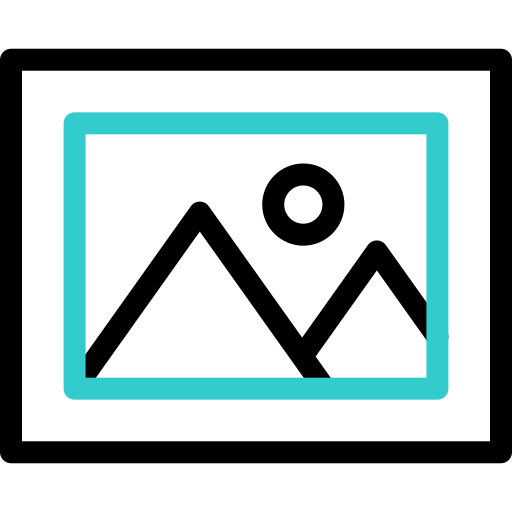
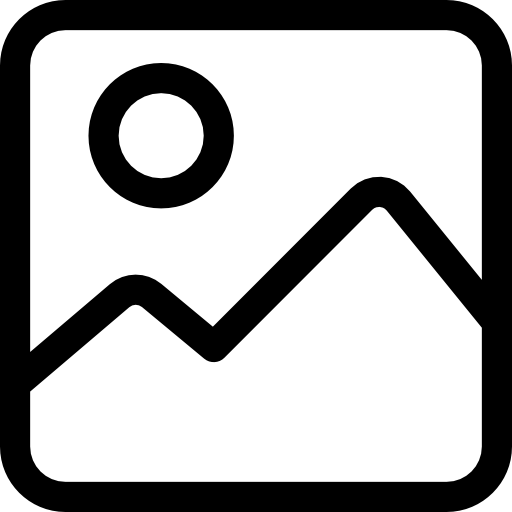
feat: add novos elementos na janela de criação de projeto + abrir projeto

diff --git a/frontend/src/services/replace-word.ts b/frontend/src/services/replace-word.ts
@@ -1,0 +1,55 @@
+export interface ProjectTemplate {
+    ProjectID: number;
+    ImgUrl: string;
+    name: string;
+    info: string;
+    configProje: ConfigSaveTemplate[]; 
+    configGame: ConfigSaveTemplate[]; 
+    scripts: ScriptSaveTemplate[];
+    metaData?: MetaDataTemplate;      // ➕ Interface complementar
+    assetsMap?: AssetMapTemplate[];   // ➕ Interface complementar
+}
+
+export interface ScriptSaveTemplate {
+    IDdirect: number; 
+    path: string; 
+    script: string; 
+}
+
+export interface ConfigSaveTemplate {
+    IDdirect: number;
+    pathNavigate: string;
+    configs: string[];
+}
+
+// ➕ Interfaces complementares para estender o sistema no futuro
+export interface MetaDataTemplate {
+    version: string;
+    lastModified: number;
+    author: string;
+    targetPlatform: 'desktop' | 'web' | 'mobile';
+}
+
+export interface AssetMapTemplate {
+    assetId: string;
+    type: 'audio' | 'texture' | 'font' | 'prefab';
+    localPath: string;
+}
+
+// Interface que define o retorno padrão do arquivo compactado
+export interface LightFileResult {
+    fileName: string;
+    content: string; // Conteúdo textual compactado pronto para ser salvo em disco
+    blob: Blob;      // O arquivo empacotado em binário puro
+}
+
+
+export function base_compress(project_data: ProjectTemplate){
+
+    return project_data
+}
+
+export function base_decompress(rawContent: string){
+    
+    return rawContent
+}

diff --git a/frontend/src/services/convert-light-file.ts b/frontend/src/services/convert-light-file.ts
@@ -1,47 +1,4 @@
-export interface ProjectTemplate {
-    ProjectID: number;
-    ImgUrl: string;
-    name: string;
-    info: string;
-    configProje: ConfigSaveTemplate[]; 
-    configGame: ConfigSaveTemplate[]; 
-    scripts: ScriptSaveTemplate[];
-    metaData?: MetaDataTemplate;      // ➕ Interface complementar
-    assetsMap?: AssetMapTemplate[];   // ➕ Interface complementar
-}
-
-export interface ScriptSaveTemplate {
-    IDdirect: number; 
-    path: string; 
-    script: string; 
-}
-
-export interface ConfigSaveTemplate {
-    IDdirect: number;
-    pathNavigate: string;
-    configs: string[];
-}
-
-// ➕ Interfaces complementares para estender o sistema no futuro
-export interface MetaDataTemplate {
-    version: string;
-    lastModified: number;
-    author: string;
-    targetPlatform: 'desktop' | 'web' | 'mobile';
-}
-
-export interface AssetMapTemplate {
-    assetId: string;
-    type: 'audio' | 'texture' | 'font' | 'prefab';
-    localPath: string;
-}
-
-// Interface que define o retorno padrão do arquivo compactado
-export interface LightFileResult {
-    fileName: string;
-    content: string; // Conteúdo textual compactado pronto para ser salvo em disco
-    blob: Blob;      // O arquivo empacotado em binário puro
-}
+import { type ProjectTemplate, type LightFileResult } from "./replace-word";
 
 function ConvertToFile(project: ProjectTemplate): LightFileResult {
     // 💡 Base da compactação solicitada (ex: substituir quebras de linha e minificar palavras-chave)

diff --git a/frontend/src/App.tsx b/frontend/src/App.tsx
@@ -1,10 +1,40 @@
+import { useEffect, useState } from 'react';
 import './App.css';
-import HomePage from './pages/HomePage/home'
+import HomePage from './pages/HomePage/home';
+import EditorPage from './pages/EditorPage/editor';
 
-function App() {
-    return (
-        <HomePage />
-  )
+type RouteState = {
+  type: 'home' | 'editor';
+  projectId?: string;
+};
+
+function getRouteFromLocation(): RouteState {
+  const match = window.location.pathname.match(/^\/editor\/(.+)$/);
+
+  if (match) {
+    return { type: 'editor', projectId: match[1] };
+  }
+
+  return { type: 'home' };
 }
 
-export default App
+function App() {
+  const [route, setRoute] = useState<RouteState>(() => getRouteFromLocation());
+
+  useEffect(() => {
+    const handleLocationChange = () => {
+      setRoute(getRouteFromLocation());
+    };
+
+    window.addEventListener('popstate', handleLocationChange);
+    return () => window.removeEventListener('popstate', handleLocationChange);
+  }, []);
+
+  if (route.type === 'editor') {
+    return <EditorPage projectId={route.projectId} />;
+  }
+
+  return <HomePage />;
+}
+
+export default App;

diff --git a/frontend/src/pages/HomePage/home.tsx b/frontend/src/pages/HomePage/home.tsx
@@ -6,7 +6,8 @@ import ProjectCard from '../../components/project-card/project-card';
 import WindowCard from '../../components/window-card/window-card';
 import './home.css';
 
-import ConvertToFile, { type ProjectTemplate } from '../../services/convert-light-file';
+import ConvertToFile from '../../services/convert-light-file';
+import { type ProjectTemplate} from "../../services/replace-word";
 import { parseLightFile } from '../../services/decompress-light-file';
 
 type ActiveGroup = 'files' | 'extension' | null;
@@ -126,17 +127,7 @@ export default function HomePage() {
 
       // Executa a conversão
       const arquivoGerado = ConvertToFile(dadosDoProjeto);
-
-      // ==========================================
-      // 🧪 ÁREA DE TESTE: VEJA NO CONSOLE DO NAVEGADOR
-      // ==========================================
-      // console.group("🔬 INSPEÇÃO DO ARQUIVO .LIGHT");
-      // console.log("Nome do Arquivo final:", arquivoGerado.fileName);
-      // console.log("Conteúdo Compactado Bruto:\n", arquivoGerado.content);
-      // console.groupEnd();
-      // ==========================================
-
-      // Executa a ponte do IPC (useBridge)
+      
       const resultadoBridge = await ExportLightFile({
         name: arquivoGerado.fileName,
         content: arquivoGerado.content
@@ -176,6 +167,12 @@ export default function HomePage() {
 
     // Fecha a janela e limpa os campos
     toggleWindow();
+  };
+
+  const handleOpenProject = (project: Project) => {
+    const nextUrl = `/editor/${project.id}`;
+    window.history.pushState({}, '', nextUrl);
+    window.dispatchEvent(new PopStateEvent('popstate'));
   };
 
   return (
@@ -231,7 +228,7 @@ export default function HomePage() {
                   <h4>{project.projectName}</h4>
                   <p>{project.gameName}</p>
                   <div className="buttons">
-                    <button>Abrir Projeto</button>
+                    <button onClick={() => handleOpenProject(project)}>Abrir Projeto</button>
                     <button>Editar Configuracões</button>
                     <button onClick={() => handleExportProject(project)}>Exportar Projeto</button>
                   </div>
@@ -264,7 +261,7 @@ export default function HomePage() {
           </header>
           <div className="window-body">
             <div className="primery-place">
-              <img src={selectedImage ? selectedImage : "assets/pngs/image-static.png"} width={120}/>
+              <img src={selectedImage ? selectedImage : "assets/pngs/image-static.png"} width={120} height={120}/>
               <div className="main-inputs">
                 <input 
                   type="file" 
@@ -285,7 +282,20 @@ export default function HomePage() {
                 />
               </div>
             </div>
-            {/* ⚡ Vincula a função ao botão do modal */}
+            <hr/>
+            <div className="base-configs">
+              <div className="primery-place">
+                <div className="game-dimension-button">
+                  <button><img src="/assets/pngs/3d.png" width={100}/></button>
+                  <button><img src="/assets/pngs/2d.png" width={100}/></button>
+                </div>
+                <div className="main-inputs">
+                  <input type="text" />
+                  <input type="text" />
+                  <input type="text" />
+                </div>
+              </div>
+            </div>
             <button onClick={handleCreateProject}>Criar Projeto</button>
           </div>
           </>

diff --git a/frontend/src/pages/HomePage/home.css b/frontend/src/pages/HomePage/home.css
@@ -101,6 +101,11 @@
     gap: 10px;
 }
 
+hr {
+    width: 100%;
+    opacity: 0.05;
+}
+
 .projects p {
     flex-grow: 0.9;
 }
@@ -146,8 +151,7 @@
 }
 
 img {
-    background-color: white;
-    border-radius: 8px;
+    filter: invert(1);
 }
 
 .main-inputs {
@@ -210,4 +214,27 @@ img {
 .window-body input[type="file"]::file-selector-button:hover {
     background-color: var(--accent-bg);
     border-color: var(--accent-border);
+}
+
+.game-dimension-button {
+    padding: 8px;
+    display: flex;
+    flex-direction: row;
+    gap: 8px;
+}
+
+.game-dimension-button button {
+    border: none;
+    box-shadow: none;
+}
+
+.game-dimension-button img {
+    background-color: transparent;
+    filter: invert(1);
+
+    transition: all 0.2s ease-in;
+}
+
+.game-dimension-button img:hover {
+    filter: brightness(0.5);
 }

diff --git a/frontend/src/pages/EditorPage/editor.tsx b/frontend/src/pages/EditorPage/editor.tsx
@@ -1,0 +1,20 @@
+import './editor.css'
+import SimpleLayout from '../../components/layout/simple-layout/simple-layout'
+
+interface EditorPageProps {
+  projectId?: string;
+}
+
+export default function EditorPage({ projectId }: EditorPageProps) {
+  return (
+    <>
+      <SimpleLayout
+        HeaderContent={<div>Header</div>}
+        LeftContent={<div>Left Sidebar</div>}
+        RightContent={<div>Right Sidebar</div>}
+        MainContent={<div>Main Content para o projeto {projectId ?? 'sem id'}</div>}
+        FooterContent={<div>Footer</div>}
+      />
+    </>
+  )
+}

diff --git a/frontend/src/main.tsx b/frontend/src/main.tsx
@@ -2,9 +2,16 @@ import { StrictMode } from 'react'
 import { createRoot } from 'react-dom/client'
 import './index.css'
 import App from './App.tsx'
+import EditorPage from './pages/EditorPage/editor.tsx'
 
 createRoot(document.getElementById('root')!).render(
   <StrictMode>
     <App />
+  </StrictMode>,
+)
+
+createRoot(document.getElementById('editor')!).render(
+  <StrictMode>
+    <EditorPage/>
   </StrictMode>,
 )

diff --git a/wwwroot/index.html b/wwwroot/index.html
@@ -5,8 +5,8 @@
     <link rel="icon" type="image/svg+xml" href="/favicon.svg" />
     <meta name="viewport" content="width=device-width, initial-scale=1.0" />
     <title>Lumenion</title>
-    <script type="module" crossorigin src="/assets/index-BvJEZA12.js"></script>
-    <link rel="stylesheet" crossorigin href="/assets/index-BfNxNDfg.css">
+    <script type="module" crossorigin src="/assets/index-MtI_51Qb.js"></script>
+    <link rel="stylesheet" crossorigin href="/assets/index-DGwCbGlR.css">
   </head>
   <body>
     <div id="root"></div>

diff --git a/wwwroot/assets/index-DGwCbGlR.css b/wwwroot/assets/index-DGwCbGlR.css
@@ -1,0 +1,1 @@
+:root{--text:#6b6375;--text-h:#08060d;--bg:#fff;--border:#e5e4e7;--code-bg:#f4f3ec;--accent:#aa3bff;--accent-bg:#aa3bff1a;--accent-border:#aa3bff80;--social-bg:#f4f3ec80;--shadow:#0000001a 0 10px 15px -3px, #0000000d 0 4px 6px -2px;--sans:system-ui, "Segoe UI", Roboto, sans-serif;--heading:system-ui, "Segoe UI", Roboto, sans-serif;--mono:ui-monospace, Consolas, monospace;font:18px/145% var(--sans);letter-spacing:.18px;--lightningcss-light:initial;--lightningcss-dark: ;color-scheme:light dark;color:var(--text);background:var(--bg);font-synthesis:none;text-rendering:optimizelegibility;-webkit-font-smoothing:antialiased;-moz-osx-font-smoothing:grayscale}@media (prefers-color-scheme:dark){:root{--lightningcss-light: ;--lightningcss-dark:initial}}@media (width<=1024px){:root{font-size:16px}}@media (prefers-color-scheme:dark){:root{--text:#9ca3af;--text-h:#f3f4f6;--bg:#16171d;--border:#2e303a;--code-bg:#1f2028;--accent:#c084fc;--accent-bg:#c084fc26;--accent-border:#c084fc80;--social-bg:#2f303a80;--shadow:#0006 0 10px 15px -3px, #00000040 0 4px 6px -2px}#social .button-icon{filter:invert()brightness(2)}}#root{text-align:center;border-inline:1px solid var(--border);box-sizing:border-box;flex-direction:column;max-width:100%;min-height:100svh;margin:0 auto;display:flex}body{margin:0}h1,h2{font-family:var(--heading);color:var(--text-h);font-weight:500}h1{letter-spacing:-1.68px;margin:32px 0;font-size:56px}@media (width<=1024px){h1{margin:20px 0;font-size:36px}}h2{letter-spacing:-.24px;margin:0 0 8px;font-size:24px;line-height:118%}@media (width<=1024px){h2{font-size:20px}}p{margin:0}code,.counter{font-family:var(--mono);color:var(--text-h);border-radius:4px;display:inline-flex}code{background:var(--code-bg);padding:4px 8px;font-size:15px;line-height:135%}button{cursor:pointer}.counter{color:var(--accent);background:var(--accent-bg);border:2px solid #0000;border-radius:5px;margin-bottom:24px;padding:5px 10px;font-size:16px;transition:border-color .3s}.counter:hover{border-color:var(--accent-border)}.counter:focus-visible{outline:2px solid var(--accent);outline-offset:2px}.hero{position:relative}.hero .base,.hero .framework,.hero .vite{margin:0 auto;inset-inline:0}.hero .base{z-index:0;width:170px;position:relative}.hero .framework,.hero .vite{position:absolute}.hero .framework{z-index:1;height:28px;top:34px;transform:perspective(2000px)rotate(300deg)rotateX(44deg)rotateY(39deg)scale(1.4)}.hero .vite{z-index:0;width:auto;height:26px;top:107px;transform:perspective(2000px)rotate(300deg)rotateX(40deg)rotateY(39deg)scale(.8)}#center{flex-direction:column;flex-grow:1;place-content:center;place-items:center;gap:25px;display:flex}@media (width<=1024px){#center{gap:18px;padding:32px 20px 24px}}#next-steps{border-top:1px solid var(--border);text-align:left;display:flex}#next-steps>div{flex:1 1 0;padding:32px}@media (width<=1024px){#next-steps>div{padding:24px 20px}}#next-steps .icon{width:22px;height:22px;margin-bottom:16px}@media (width<=1024px){#next-steps{text-align:center;flex-direction:column}}#docs{border-right:1px solid var(--border)}@media (width<=1024px){#docs{border-right:none;border-bottom:1px solid var(--border)}}#next-steps ul{gap:8px;margin:32px 0 0;padding:0;list-style:none;display:flex}#next-steps ul .logo{height:18px}#next-steps ul a{color:var(--text-h);background:var(--social-bg);border-radius:6px;align-items:center;gap:8px;padding:6px 12px;font-size:16px;text-decoration:none;transition:box-shadow .3s;display:flex}#next-steps ul a:hover{box-shadow:var(--shadow)}#next-steps ul a .button-icon{width:18px;height:18px}@media (width<=1024px){#next-steps ul{flex-wrap:wrap;justify-content:center;margin-top:20px}#next-steps ul li{flex:calc(50% - 8px)}#next-steps ul a{box-sizing:border-box;justify-content:center;width:100%}}#spacer{border-top:1px solid var(--border);height:88px}@media (width<=1024px){#spacer{height:48px}}.ticks{width:100%;position:relative}.ticks:before,.ticks:after{content:"";border:5px solid #0000;position:absolute;top:-4.5px}.ticks:before{border-left-color:var(--border);left:0}.ticks:after{border-right-color:var(--border);right:0}*{font-family:var(--mono)}.background{background-color:var(--code-bg);flex-direction:column;width:100%;height:100vh;display:flex}header{z-index:2;background-color:#0000;flex-direction:row;justify-content:space-between;align-items:center;padding:12px 16px 1px;display:flex}.layout-body{box-sizing:border-box;flex-direction:row;flex-grow:1;padding-bottom:12px;padding-right:12px;display:flex;overflow:hidden}.right-bar{z-index:1;background-color:#0000;flex-direction:column;flex-shrink:0;height:100%;padding:16px;display:flex;overflow:auto}.left-bar{z-index:2;background-color:#0000;flex-direction:column;flex-shrink:0;width:0;height:100%;padding:0;transition:padding .3s;display:flex;overflow:hidden}.left-bar.active{border-top:2px solid #54159ddd;width:220px;margin-top:-1px;padding:16px;transition:width .3s cubic-bezier(.4,0,.2,1),padding .3s;overflow:auto}body:has(.resizer-horizontal:active) .left-bar{transition:none!important}.main-body{background-color:var(--bg);border-radius:16px;flex-direction:column;flex-grow:1;margin:4px 4px 0;display:flex;overflow:hidden}.main-window{flex-grow:1;overflow:auto}.resizable-footer{background-color:var(--border);flex-shrink:0;padding:16px;overflow:auto}.resizer-horizontal{cursor:ew-resize;z-index:10;width:5px;height:98%;margin-top:.5%;transition:background .2s}.resizer-horizontal:hover{background-color:#ffffff1a}.resizer-vertical{cursor:ns-resize;border-top:1px solid var(--border);z-index:10;height:6px;transition:background .2s}.resizer-vertical:hover{background-color:#ffffff1a}button{border:1px solid var(--accent);min-width:80px;box-shadow:1px 1px 1px var(--accent);background-color:#0000;border-radius:4px;padding:4px;transition:all .3s}button:hover{filter:brightness(1.6)}.card{background-color:var(--border);-webkit-backdrop-filter:blur(8px);backdrop-filter:blur(8px);border-radius:8px;flex-direction:row;justify-content:space-between;align-items:center;padding:6px;display:flex}.back-window{-webkit-backdrop-filter:blur(2px);backdrop-filter:blur(2px);z-index:10;box-sizing:border-box;background-color:#000000c0;justify-content:center;align-items:center;width:100vw;height:100vh;padding:20px;display:flex;position:fixed;top:0;left:0}.body{-webkit-backdrop-filter:blur(3px);backdrop-filter:blur(3px);text-align:center;background-color:var(--social-bg);border:1px solid var(--border);box-sizing:border-box;border-radius:12px;flex-direction:column;width:100%;max-width:80vw;height:100%;max-height:80vh;padding:24px;display:flex}.button-group{flex-direction:row;gap:4px;display:flex;transform:translateY(2px)}.button-group button.active-tab{box-shadow:none;z-index:3;background-color:#1e1e24;border:1px solid #54159ddd;border-bottom-color:#1e1e24;border-radius:4px 4px 0 0;position:relative;transform:translateY(4px)}.title{flex-grow:1;margin-right:3%}.right-button{margin-right:20px}.left-bar>button{background-color:var(--accent-bg);border-color:var(--accent-border);box-shadow:0 1px 1px var(--accent-border)}.left-bar>button:hover{filter:brightness(1.2)}.left-sidebar-container{opacity:0;flex-direction:column;width:100%;min-width:170px;transition:opacity .2s,transform .2s;display:flex;transform:translate(-15px)}.left-bar.active .left-sidebar-container{opacity:1;transform:translate(0)}.animate-fade-in{animation:.15s ease-in-out forwards fadeInInternal}@keyframes fadeInInternal{0%{opacity:0}to{opacity:1}}.button-group button.active-tab{background-color:#7700ff59;border-color:#872feb;box-shadow:0 0 4px #872feb}.left-sidebar-container *{box-sizing:border-box;width:100%;margin-bottom:8px;padding:6px}.home-main{flex-direction:column;gap:30px;padding:15px;display:flex}.main-buttons{flex-direction:row;gap:10px;display:flex}.projects{flex-direction:column;gap:10px;display:flex}hr{opacity:.05;width:100%}.projects p{flex-grow:.9}.buttons{flex-direction:column;gap:4px;display:flex}.buttons button{background-color:var(--code-bg);border-color:var(--bg);box-shadow:0 1px 1px var(--bg);border-radius:8px}.buttons button:hover{filter:brightness(1.4)}.close-button{min-width:auto;box-shadow:none;background-color:#0000;border:none;margin-bottom:5px}.window-body{flex-direction:column;padding:50px;display:flex}.primery-place{flex-direction:row;justify-content:space-around;width:100%;padding:10px;display:flex}img{filter:invert()}.main-inputs{flex-direction:column;flex-grow:.8;gap:8px;width:100px;display:flex}.window-body input[type=text]{box-sizing:border-box;width:100%;font-family:var(--sans);background-color:var(--code-bg);color:var(--text-h);border:1px solid var(--border);border-radius:6px;outline:none;padding:10px 14px;font-size:15px;transition:border-color .2s,box-shadow .2s}.window-body input[type=text]:focus{border-color:var(--accent);box-shadow:0 0 0 3px var(--accent-bg)}.window-body input[type=text]::placeholder{color:var(--text);opacity:.6}.window-body input[type=file]{font-family:var(--sans);color:var(--text);font-size:14px}.window-body input[type=file]::file-selector-button{font-family:var(--sans);background-color:var(--code-bg);color:var(--text-h);border:1px solid var(--border);cursor:pointer;border-radius:4px;margin-right:10px;padding:6px 12px;font-size:14px;font-weight:500;transition:background-color .2s,border-color .2s}.window-body input[type=file]::file-selector-button:hover{background-color:var(--accent-bg);border-color:var(--accent-border)}.game-dimension-button{flex-direction:row;gap:8px;padding:8px;display:flex}.game-dimension-button button{box-shadow:none;border:none}.game-dimension-button img{filter:invert();background-color:#0000;transition:all .2s ease-in}.game-dimension-button img:hover{filter:brightness(.5)}